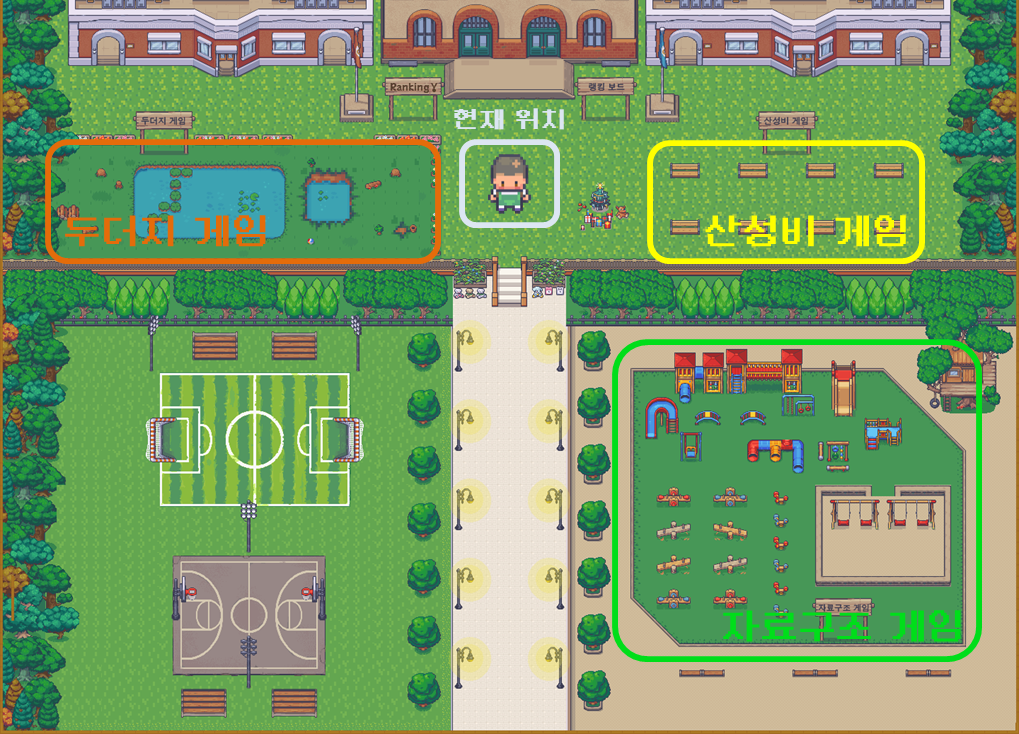
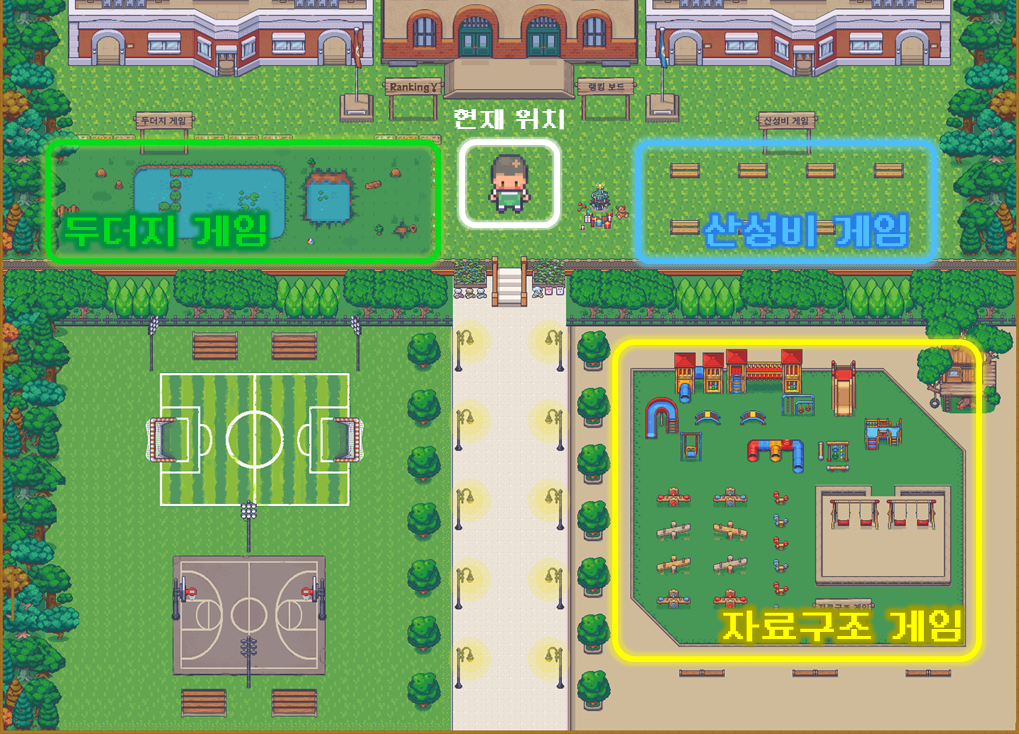
design update

Changed region(s): [[0.578, 0.4496, 0.9735, 0.9292], [0.0304, 0.1499, 0.578, 0.3896], [0.6084, 0.1798, 0.9431, 0.3896]]

diff --git a/client/src/components/entrydialog/WelcomeDialog.tsx b/client/src/components/entrydialog/WelcomeDialog.tsx
@@ -43,6 +43,9 @@ const Wrapper = styled.form`
   top: 50%;
   left: 50%;
   transform: translate(-50%, -50%);
+  display: flex;
+  flex-direction: column;
+  justify-content: center;
   background: #222639;
   border-radius: 16px;
   padding: 36px 50px;
@@ -50,14 +53,16 @@ const Wrapper = styled.form`
   width: 75%;
 `
 const Title = styled.h3`
-  margin: 5px;
+  margin: 16px;
   font-size: 50px;
-  color: #c2c2c2;
+  color: white;
   text-align: center;
 `
 const Content = styled.div`
   display: flex;
-  margin: 36px 0;
+  margin: 40px 0;
+  flex-direction: row;
+  justify-content: center;
 `
 const Left = styled.div`
   display: flex;
@@ -68,7 +73,7 @@ const Left = styled.div`
   font-size: 20px;
 `
 const Right = styled.div`
-  width: 50%;
+  width: 40%;
   margin: 0 0 0 60px;
   color: white;
   display: flex;
@@ -90,10 +95,12 @@ const Special = styled.span`
   color: #f9f871;
   font-height: bold;
 `
-const Description = styled.span`
+const Description = styled.div`
   color: white;
   font-size: 26px;
   line-height: 1.5;
+  word-break: keep-all;
+  text-align: center;
 `
 const GameDescription = styled.div`
   margin-top: 40px;
@@ -179,15 +186,14 @@ export default function WelcomeDialog() {
             <Description>
               <span style={{ fontSize: '40px', color: '#f9f871' }}>{username.toUpperCase()}</span>{' '}
               님, 안녕하세요! <br />
-              여기는 키즈들의 코딩공간, 코드잇입니다. <br />
               <br />
-              저희 코드잇에는 세가지 게임이 있어요. <br />
+              {/* 여기는 키즈들의 코딩공간, 코드잇입니다. <br /> */}
               왼쪽 맵을 확인하여 원하는 게임을 플레이해보세요 !<br />
             </Description>
             <GameDescription>
-              <h3 style={{ color: '#e46c0a' }}>주황: 두더지 게임</h3>
-              <h3 style={{ color: '#e1e100' }}>노랑: 산성비 게임</h3>
-              <h3 style={{ color: '#00de1a' }}>초록: 자료구조 게임</h3>
+              <h3 style={{ color: '#00de1a' }}>초록: 두더지 게임</h3>
+              <h3 style={{ color: 'skyblue' }}>파랑: 산성비 게임</h3>
+              <h3 style={{ color: '#e1e100' }}>노랑: 자료구조 게임</h3>
             </GameDescription>
           </Right>
         </Content>

diff --git a/client/src/components/ExperienceBarResult.css b/client/src/components/ExperienceBarResult.css
@@ -1,11 +1,14 @@
 .experienceResult-bar {
-  width: 100%;
+  width: 450px;
   height: 20px;
   background: #ddd;
   border-radius: 10px;
   overflow: hidden;
   margin: 0 auto;
   display: flex;
+  position: fixed;  /* 추가 */
+  left: 50%;  /* 추가 */
+  transform: translateX(-50%);
 }
 
 .experienceResult-bar__fill {

diff --git a/client/src/components/ExperienceResultModal.tsx b/client/src/components/ExperienceResultModal.tsx
@@ -145,7 +145,7 @@ const ExperienceResultModal =
       <Experience>
         <ExperienceBarResult oldExperience={oldUserExp} currentExperience={currentExp} experienceToNextLevel={requiredExp} />
       </Experience>
-
+      <br/><br/>
       <Bottom>
         <Button variant="contained"
           size="large"

diff --git a/client/src/components/entrydialog/LoginDialog.tsx b/client/src/components/entrydialog/LoginDialog.tsx
@@ -46,7 +46,7 @@ const Wrapper = styled.form`
 const Title = styled.p`
   margin: 5px;
   font-size: 50px;
-  color: #c2c2c2;
+  color: white;
   text-align: center;
   font-family: Font_DungGeun;
 `
